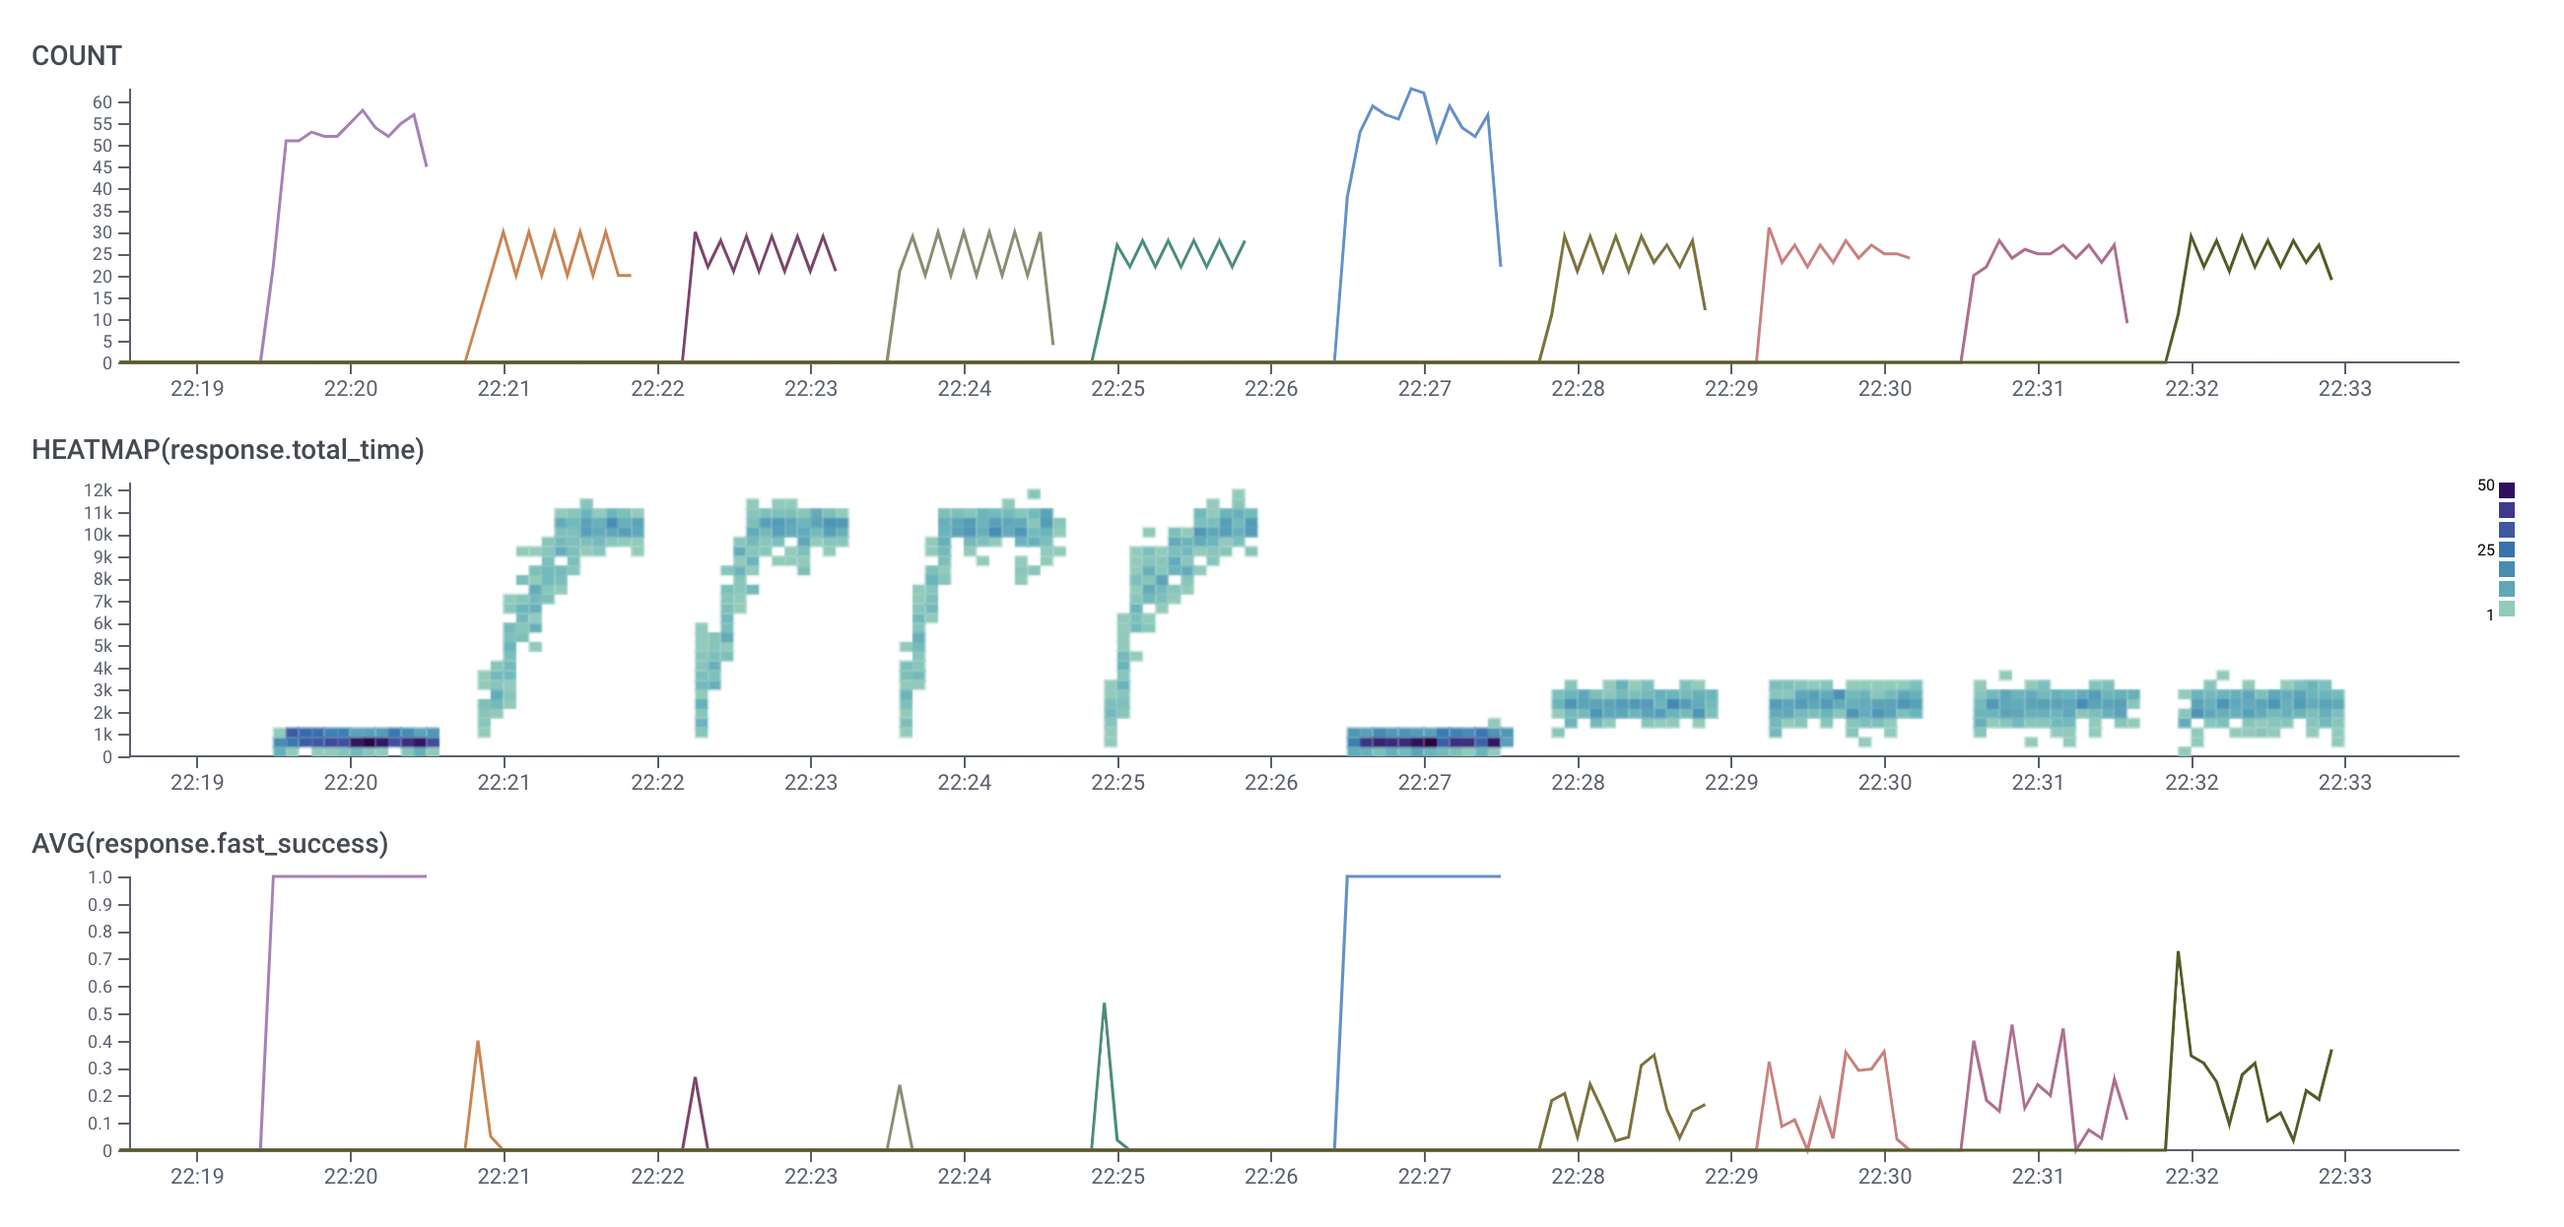
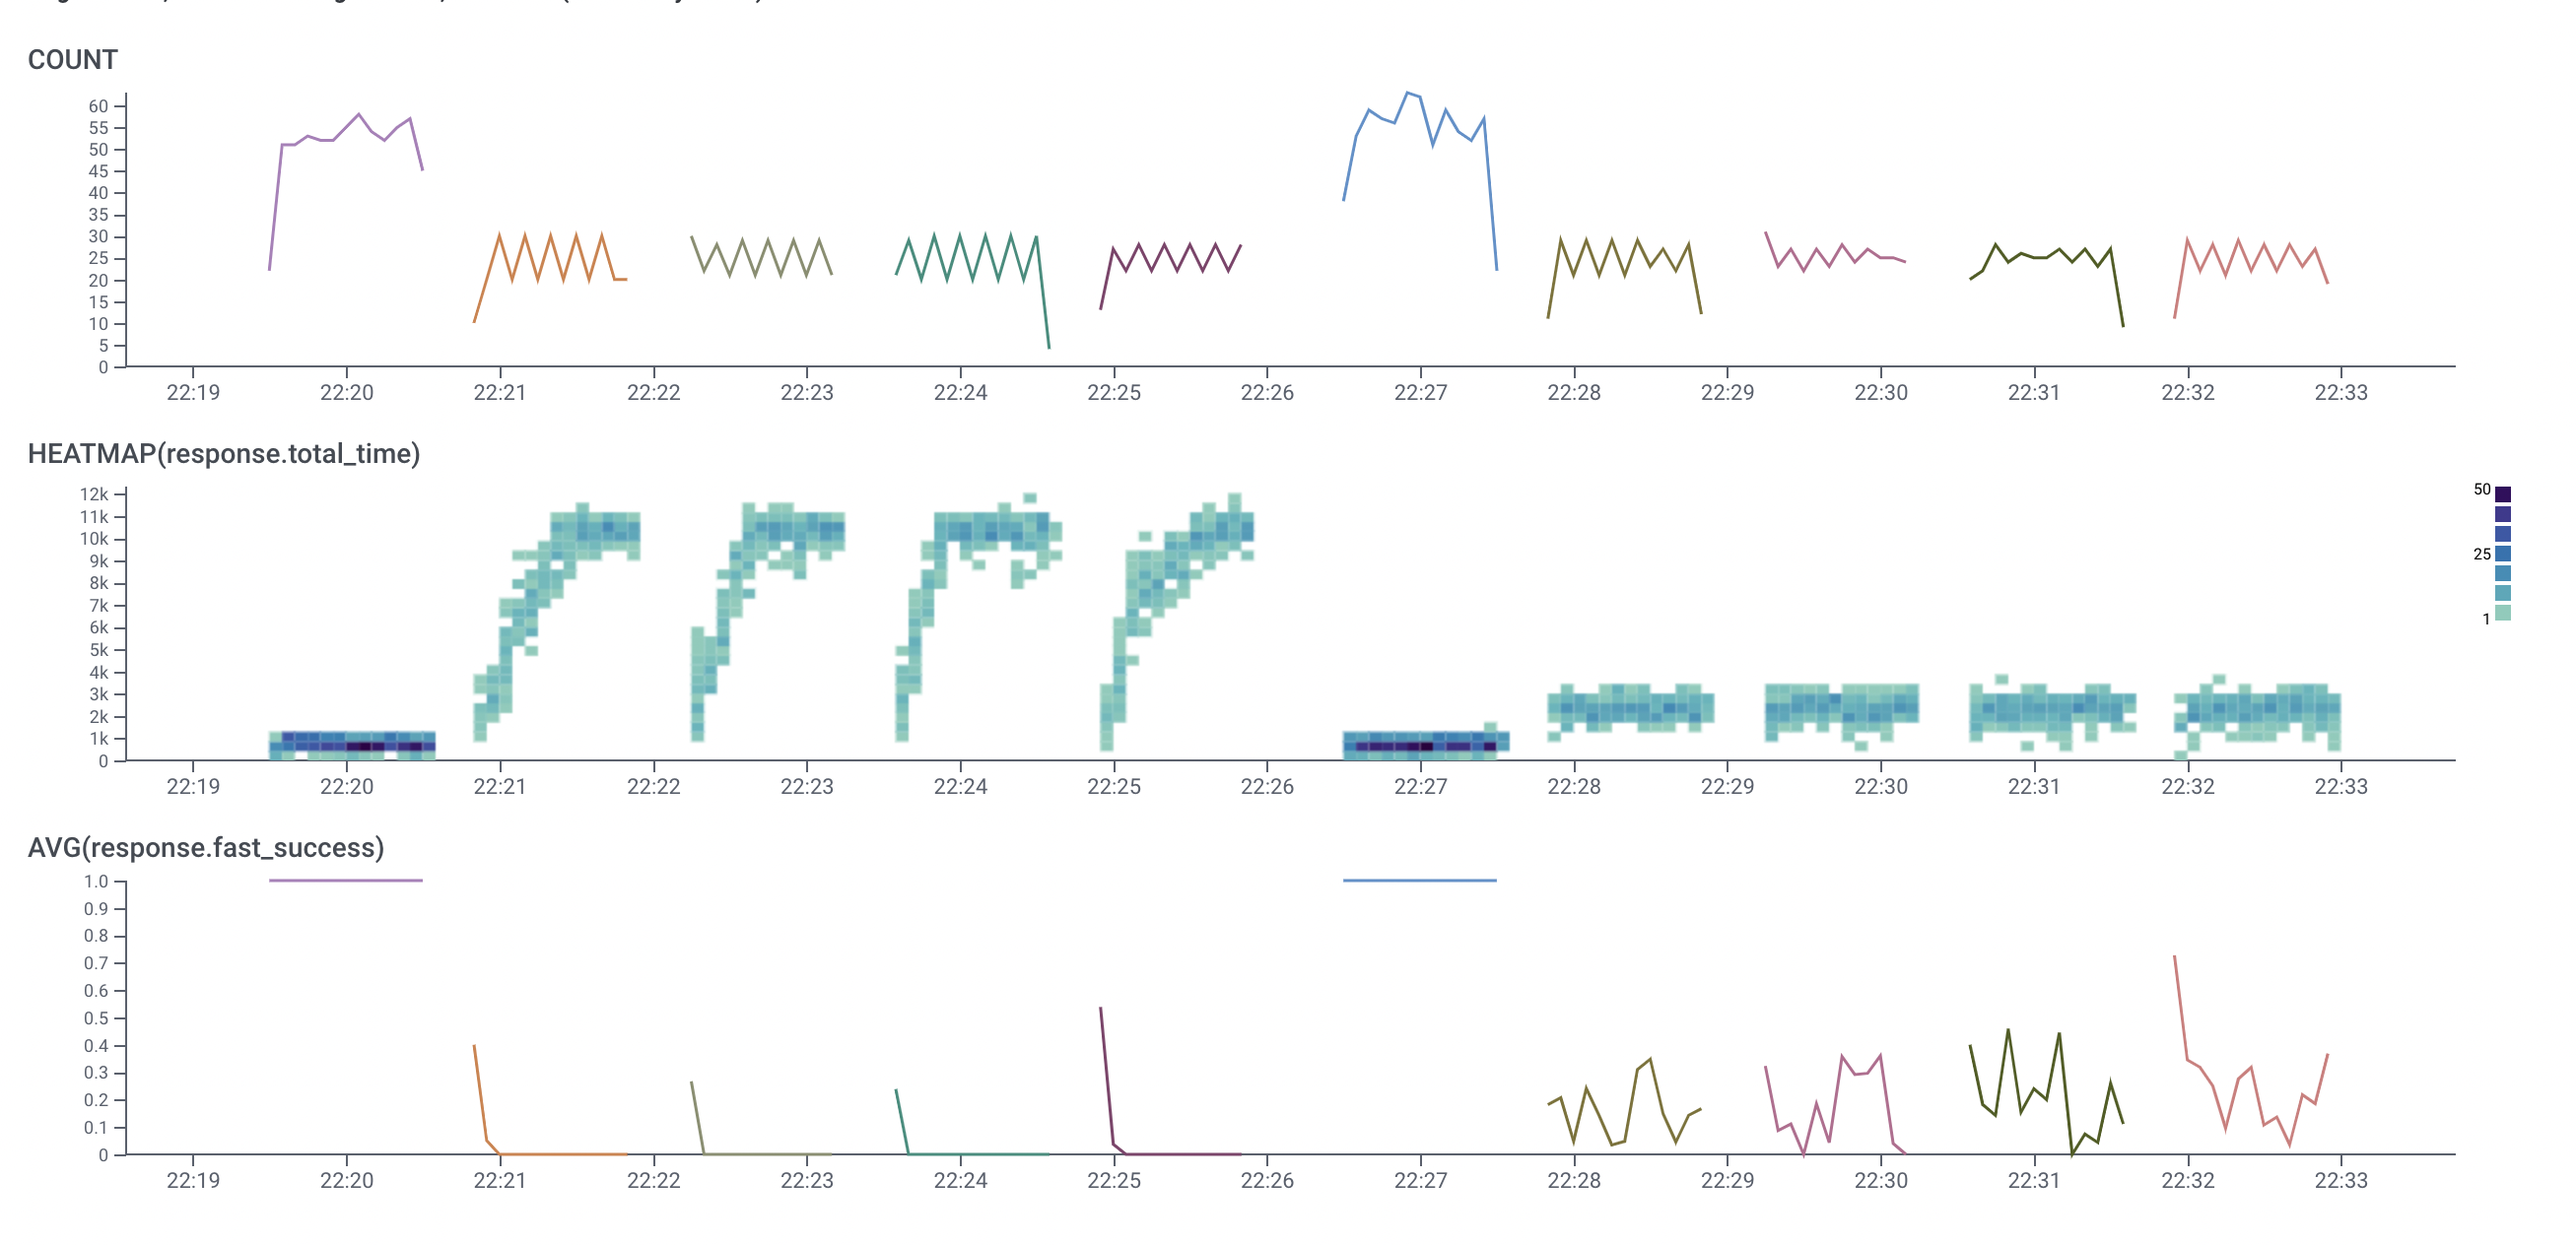
Add screenshots of results

diff --git a/README.md b/README.md
@@ -38,6 +38,18 @@ still _meaningful_ to serve. In an environment where clients automatically
 retry requests, this means that retries are more likely to succeed, as queue
 depth is controlled.
 
+### Results
+
+![Chart](./images/chart.png)
+![Table](./images/table.png)
+
+The results show that with load shedding enabled, the queue remains controlled
+and we are able to serve 10x more requests that result in a 2XX response _within_
+the client timeout threshold.
+
+Load shedding is an easy addition to your application middleware stack that can
+mean the difference between service degradation and service unavailability.
+
 ---
 
 The `scripts/load` script runs a series of 'trials' using `rakyll/hey` to
